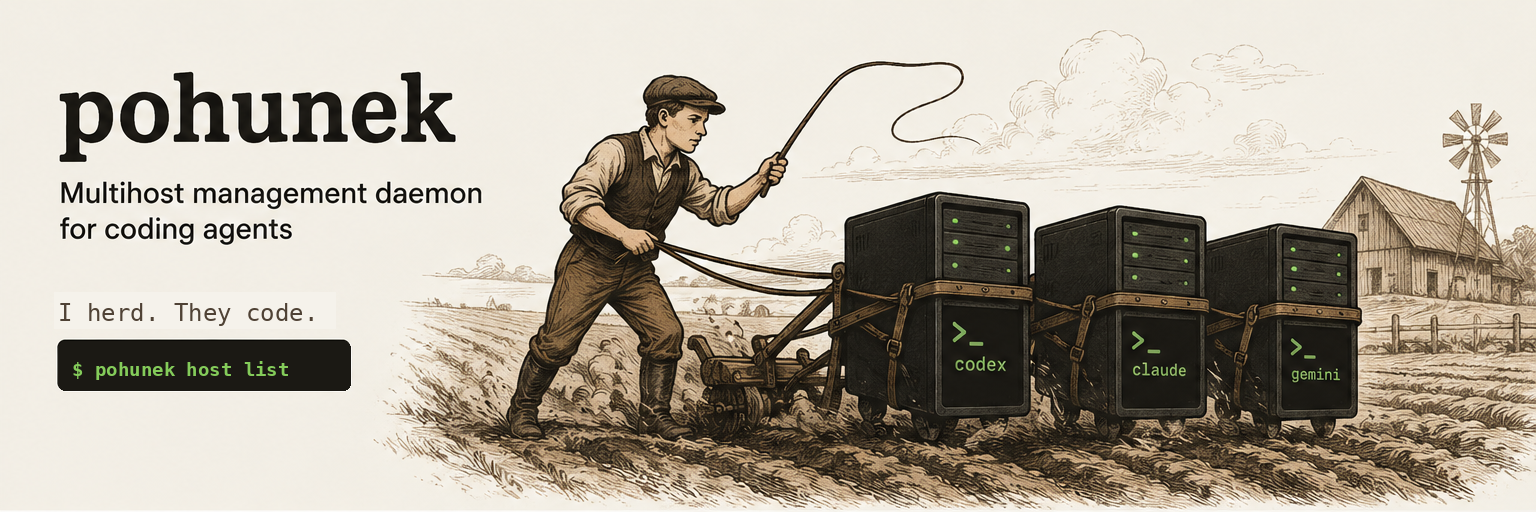
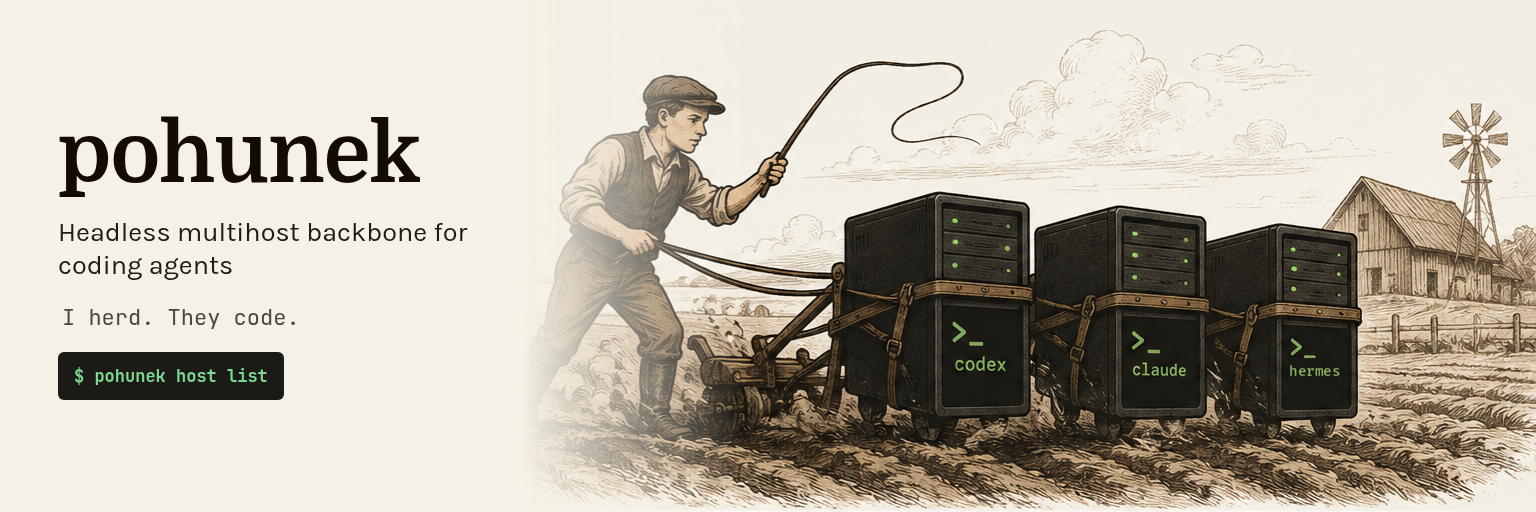
Point the README at pohunek.dev and redraw the hero with hermes

diff --git a/README.md b/README.md
@@ -1,5 +1,15 @@
 <p align="center">
-  <img src="assets/pohunek_github_hero.png" alt="pohunek — multihost management daemon for coding agents. I herd. They code." />
+  <img src="assets/pohunek_github_hero.png" alt="pohunek: headless multihost backbone for coding agents. I herd. They code. Engraving of a farmhand steering a plow pulled by three server cabinets labelled codex, claude and hermes." />
+</p>
+
+<p align="center">
+  <a href="https://pohunek.dev"><b>pohunek.dev</b></a>
+  ·
+  <a href="https://pohunek.dev/docs/">Docs</a>
+  ·
+  <a href="https://pohunek.dev/install/">Install</a>
+  ·
+  <a href="https://pohunek.dev/surfaces/">Surfaces</a>
 </p>
 
 <p align="center">
